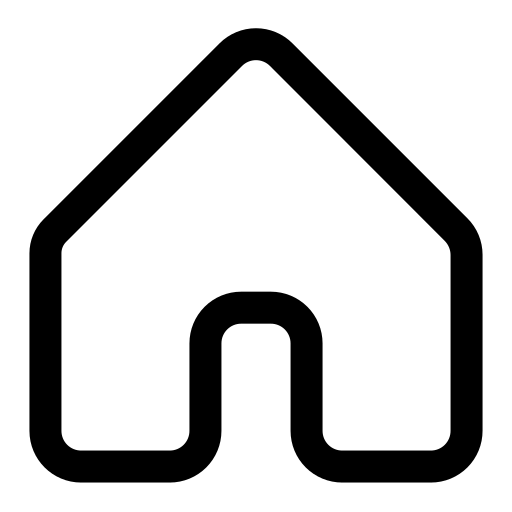
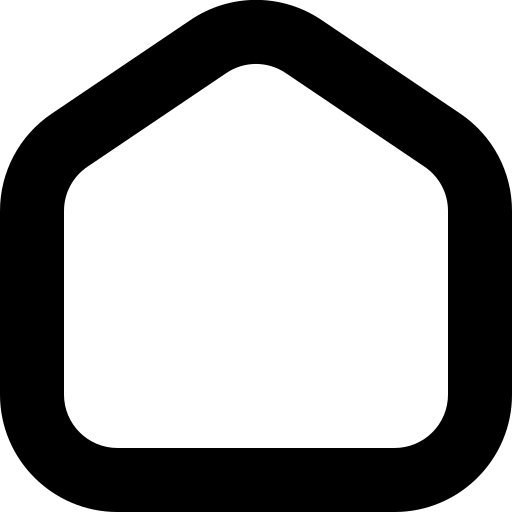
Added images and script for nav-links and user-dropdown

diff --git a/src/page.js b/src/page.js
@@ -1,0 +1,22 @@
+(function () {
+  const avatarBtn = document.getElementById('btn-avatar');
+  const dropdown  = document.getElementById('navbar-dropdown');
+
+  if (avatarBtn && dropdown) {
+    avatarBtn.addEventListener('click', e => {
+      e.stopPropagation();
+      dropdown.classList.toggle('is-open');
+    });
+    document.addEventListener('click', () => {
+      dropdown.classList.remove('is-open');
+    });
+  }
+
+  const navLinks = document.querySelectorAll('.navbar-links a');
+  navLinks.forEach(a => {
+    a.addEventListener('click', () => {
+      navLinks.forEach(l => l.classList.remove('active'));
+      a.classList.add('active');
+    });
+  });
+})();

diff --git a/page.php b/page.php
@@ -30,7 +30,7 @@ $username  = $logged_in ? htmlspecialchars($_SESSION['username']) : '';
       My quizzes
     </a></li>
     <li><a href="#discover">
-      <img src="img/discover.png" width="20" height="20">
+      <img src="img/discover.png" width="22" height="22">
       Discover
     </a></li>
   </ul>